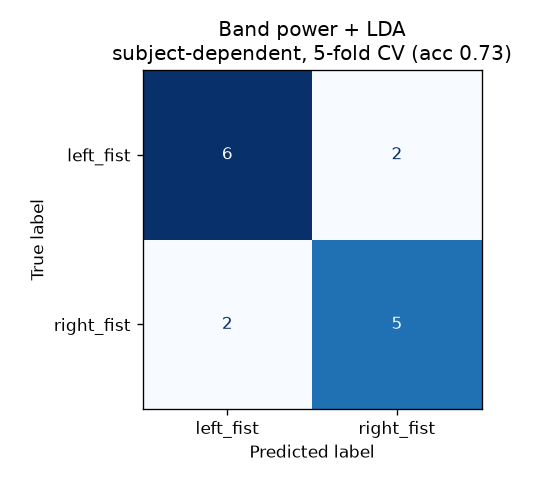
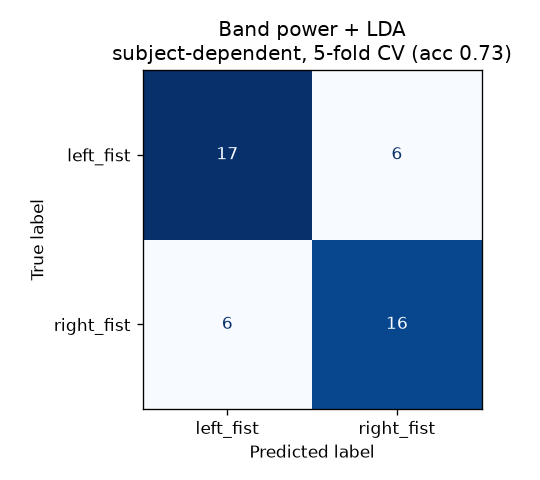
Re-run subject-dependent eval on subject 1 runs 4+8+12 (45 trials)
With 45 trials the classical baselines stabilise (per-fold std 0.25 -> 0.09):
band power + LDA 0.73, CSP + LDA 0.60. Band power currently edges out CSP,
likely because concatenating three separately-recorded runs adds session-level
covariance shifts that CSP's global spatial filters are sensitive to. Updated
confusion-matrix figures, README results table, and summary label.

Claude-Session: https://claude.ai/code/session_01KCCDM3nuYm6UwM8WLx6P1j

diff --git a/src/train.py b/src/train.py
@@ -120,9 +120,11 @@ def main() -> None:
     )
 
     # --- Summary comparison ------------------------------------------------
-    print("\n=== Subject-dependent accuracy comparison (S001 run 4) ===")
+    print(f"\n=== Subject-dependent accuracy comparison "
+          f"(S{SUBJECT:03d}, {len(y)} trials) ===")
     for name, res in results.items():
-        print(f"  {name:<16s}: {res['accuracy']:.3f}")
+        print(f"  {name:<16s}: {res['accuracy']:.3f} "
+              f"± {res['fold_accuracies'].std():.3f}")
 
     return results
 

diff --git a/README.md b/README.md
@@ -28,19 +28,21 @@ Raw EDF -> filter (8-30Hz) -> re-reference -> epoch -> extract features
 (subject-dependent + cross-subject).
 
 ## Results
-_Filled in as milestones complete. Current numbers are preliminary: a single
-subject (S001), single run (run 4), 15 trials, 5-fold stratified CV — so
-accuracies are above chance but high-variance. They will firm up once more
-runs/subjects are added._
+_Filled in as milestones complete. Subject-dependent numbers below are for
+subject 1 across its three imagery runs (4, 8, 12), 45 trials, 5-fold
+stratified cross-validation. Cross-subject columns are still to come._
 
 | Method | Subject-dependent acc | Cross-subject acc |
 |---|---|---|
 | Band power + LDA | 0.73¹ | — |
-| CSP + LDA | 0.73¹ | — |
+| CSP + LDA | 0.60¹ | — |
 | CSP + SVM | — | — |
 | EEGNet | — | — |
 
-¹ Subject 1, run 4 only (15 trials, majority-class chance ≈ 0.53), 5-fold CV.
-With only 15 trials the two classical methods are statistically
-indistinguishable here; the comparison becomes meaningful once more
-runs/subjects are added.
+¹ Subject 1, runs 4+8+12 (45 trials, majority-class chance ≈ 0.51), 5-fold
+CV, mean ± 0.09 across folds. Note band power currently edges out CSP here:
+concatenating three separately-recorded runs introduces session-to-session
+covariance shifts that CSP's global spatial filters are sensitive to, whereas
+per-channel band power is more robust to them. Whether CSP recovers its usual
+edge with per-run or multi-subject training is worth checking as more data is
+added.
